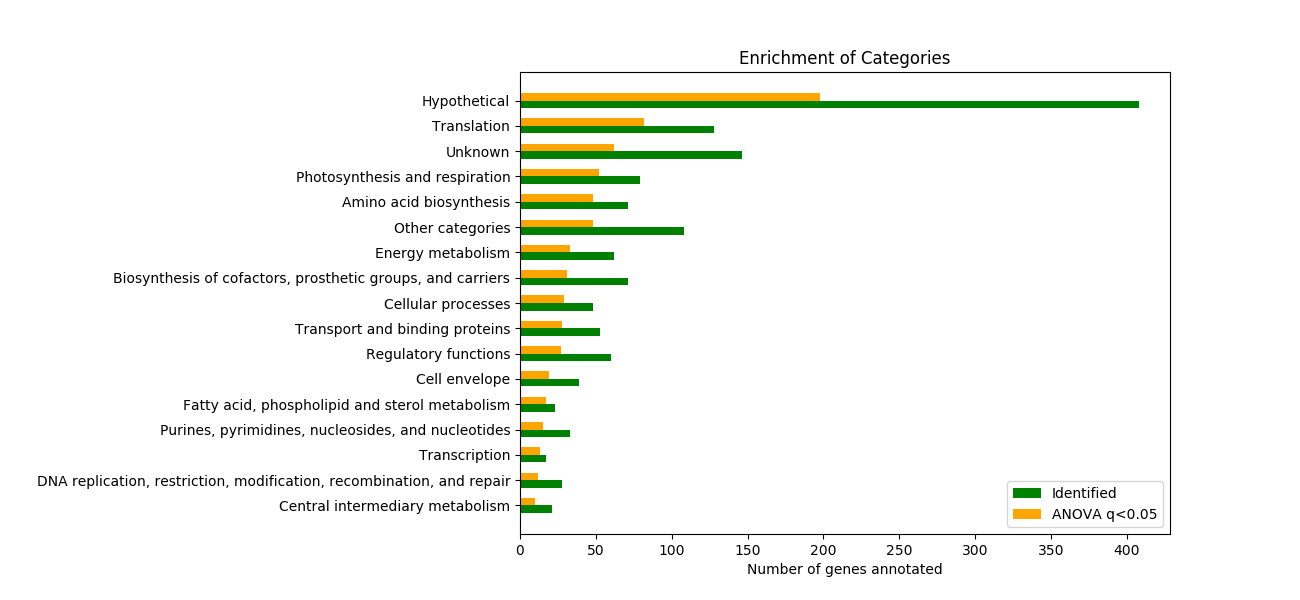
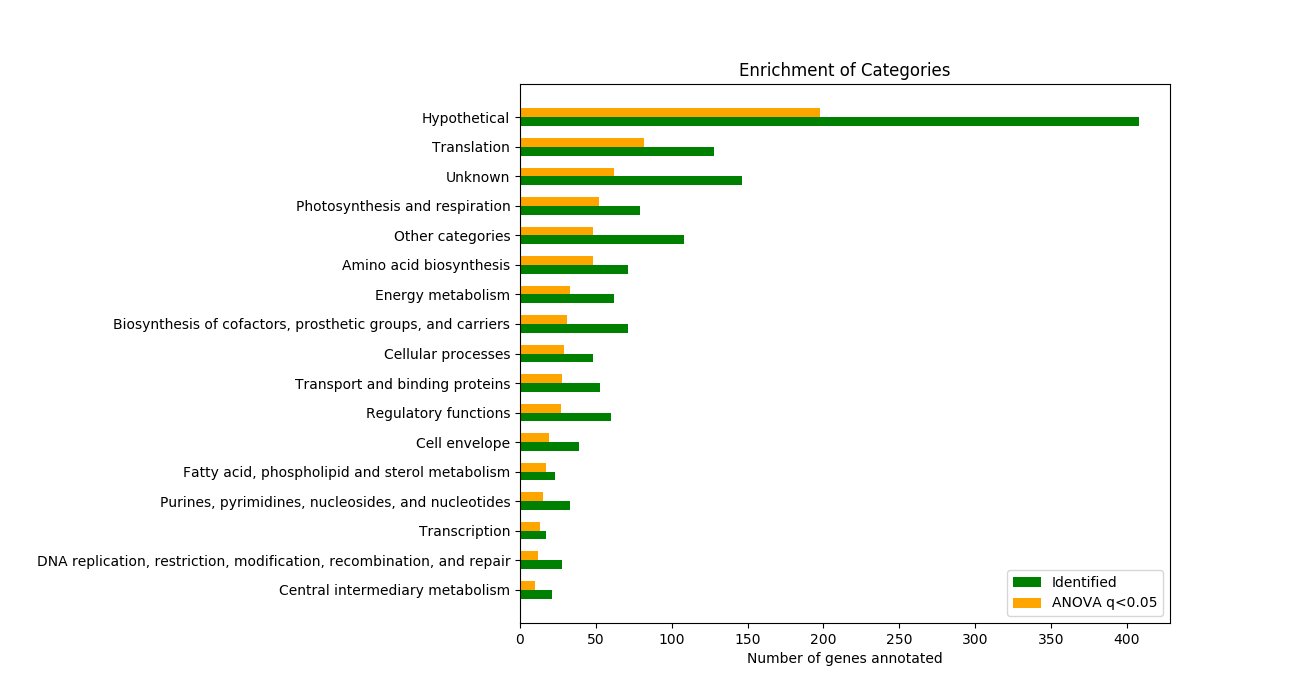
updates
more updates

diff --git a/project/scripts/enrichment_analysis_script_checking_GO.py b/project/scripts/enrichment_analysis_script_checking_GO.py
@@ -5,7 +5,7 @@
 #Last edited: 09/01/2018
 
 #input paths
-path_category = "../data/openMS/results/category_loc.csv"
+path_category = "../data/openMS/results/goterm.csv"
 path_sign = "../data/openMS/statistics/sign_genes.csv"
 path_iden = "../data/openMS/statistics/diffacto_q_values.csv"
 
@@ -25,9 +25,9 @@ import numpy as np
 
 #import file with significantly expressed genes:
 sign_df = pd.read_csv(path_sign, header=0, index_col=0, usecols=["protein","f_value","p_value","q_value"])
-cg_df = pd.read_csv(path_category, header=0, index_col=0, usecols=["GeneID","Process"])
+cg_df = pd.read_csv(path_category, header=0, index_col=0, usecols=["gene_id","go_description","go_id"])
 iden_df = pd.read_csv(path_iden, header=0, index_col=0, usecols=["protein","f_value","p_value","q_value"])
-
+"""
 ###calc qvalue###
 def get_q_value(pvals):
 	q_sign = 0.05
@@ -52,7 +52,7 @@ def get_q_value(pvals):
 		else:
 			sign.append("No")
 	return q_vals[::-1], sign[::-1]
-
+"""
 ###ANOVA: significant###
 #get counts for sign proteins
 process_list_sign = []
@@ -72,6 +72,7 @@ counts_df.index.names = ["process"]
 counts_df.columns =["counts_significant"]
 counts_df = counts_df.assign(counts_identified=([0]*17))
 
+"""
 ###Identified###
 #get counts for iden proteins
 process_list_iden = []
@@ -92,6 +93,7 @@ M = len(iden_df)	#total identified genes
 x=counts_df["counts_significant"]	#process counts in significant
 n=counts_df["counts_identified"]	#process counts in identified
 pvalsH = stats.hypergeom.sf(x-1, M, n, N, loc=0)	#perform hypergeometric test
+
 pvalsL = []
 
 #cdf wont accept my input as array/list/df. avoiding the struggle:
@@ -174,6 +176,7 @@ plt.legend(handles=[colour_blue,colour_yel], loc='upper center', bbox_to_anchor=
 plt.subplots_adjust(left=0.5, bottom=0.2)
 plt.savefig("../data/openMS/enrichment/new/enrichment_process_plot_new_norm.png")
 plt.close(fig)
+"""
 """
 ###normalized plot###V2
 norm=[x/M for x in (counts_df_pval["counts_identified"])]
